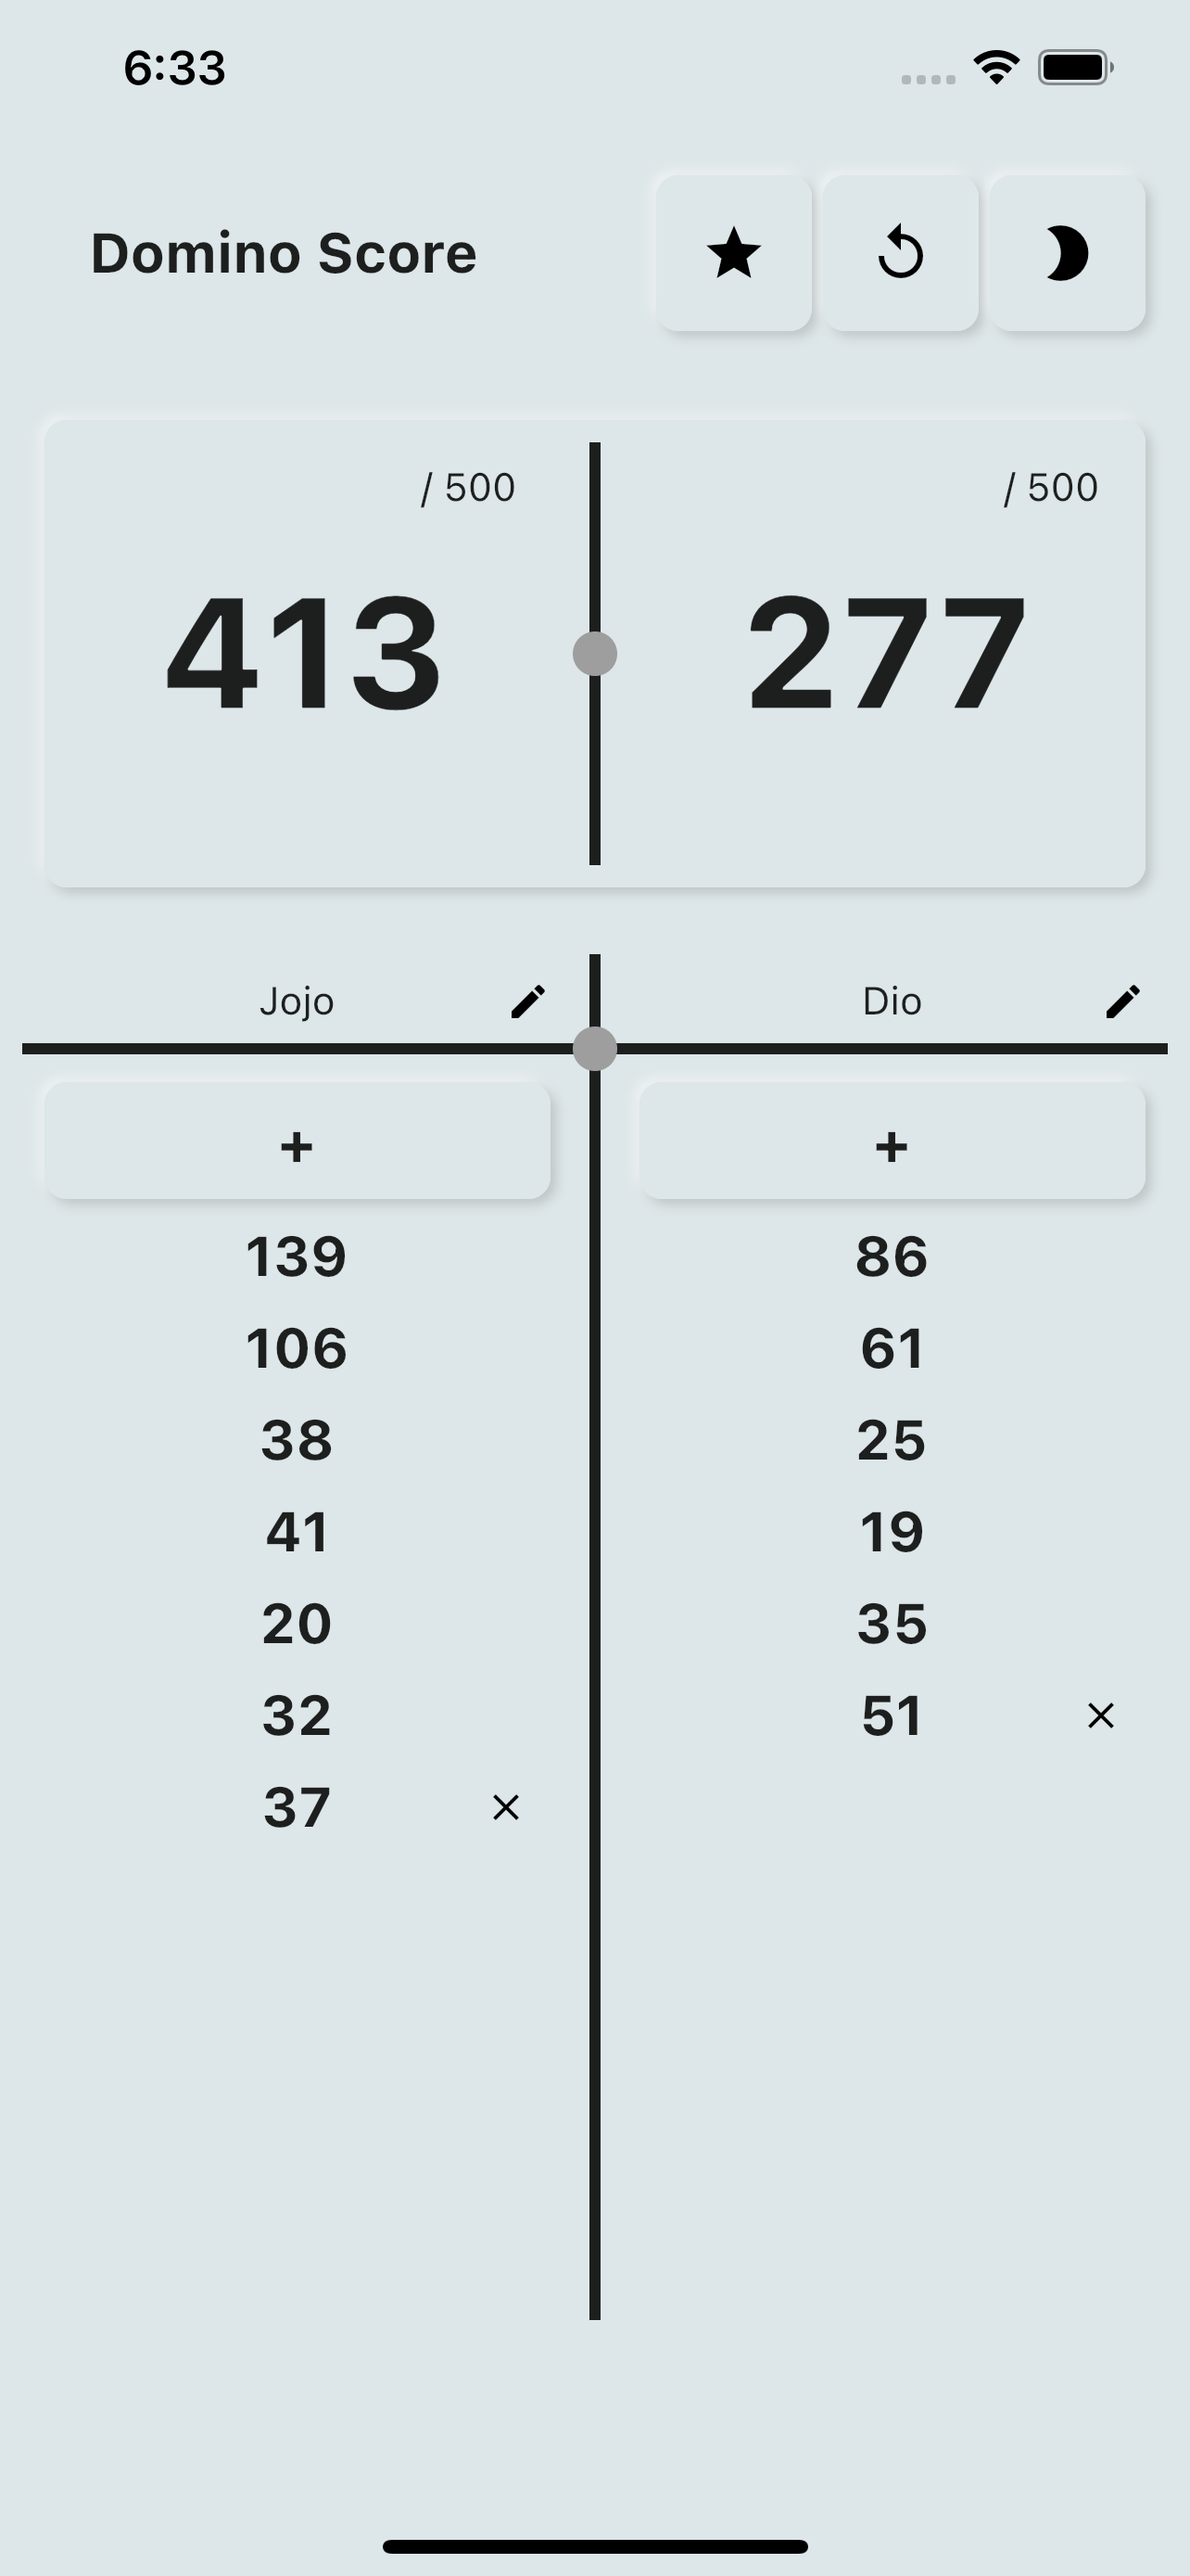
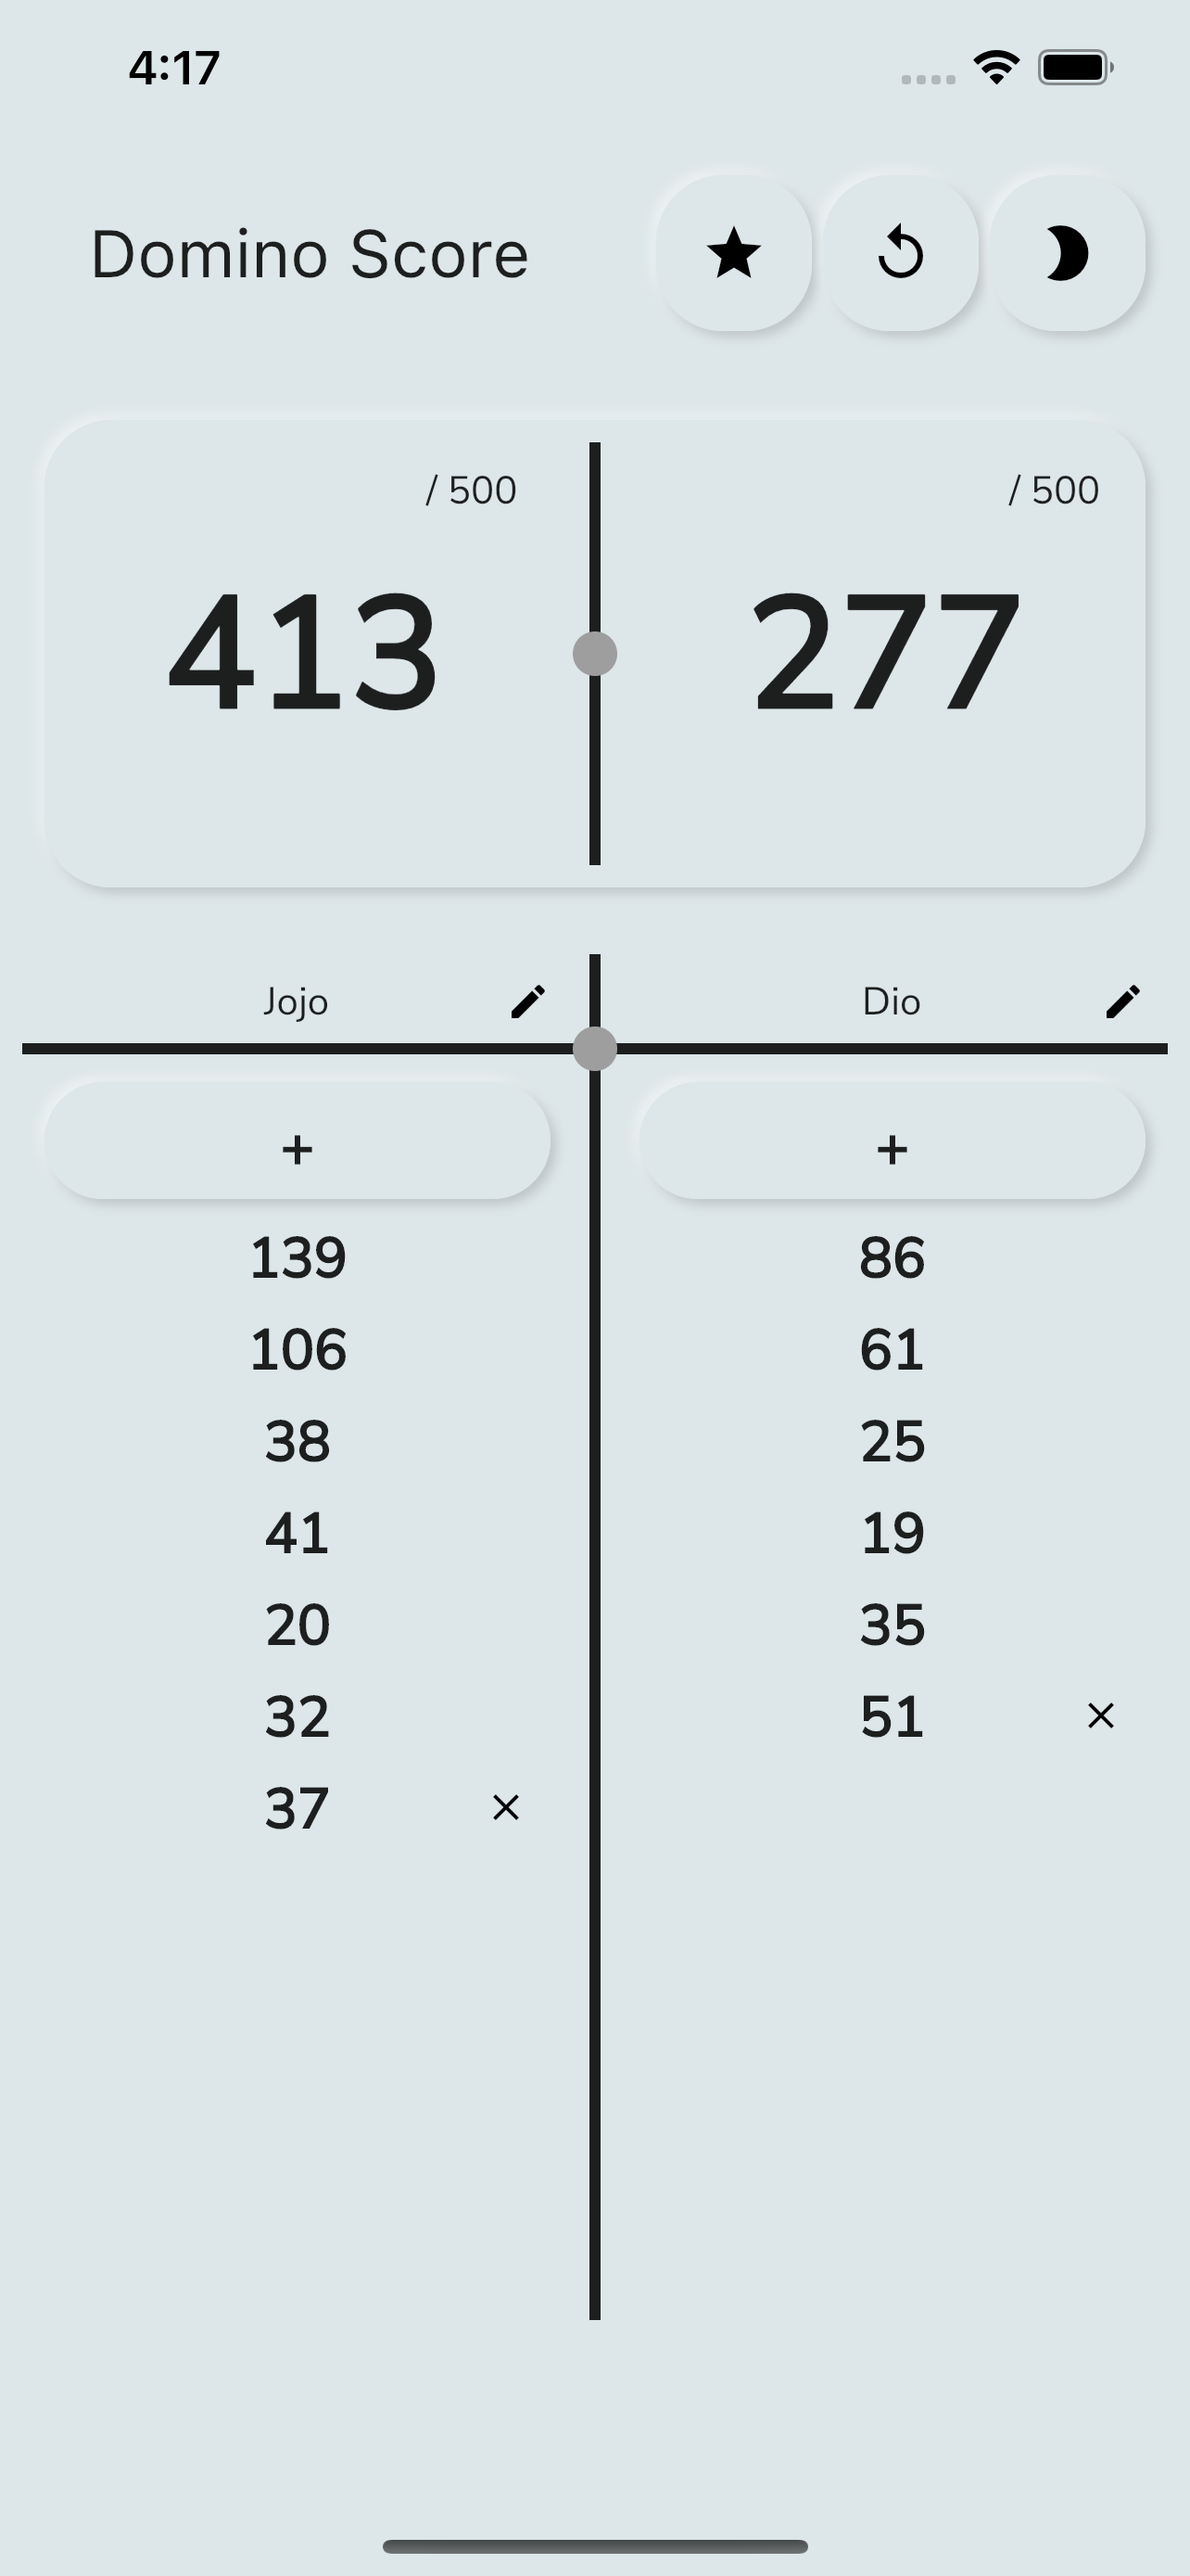
version 1.1.4

diff --git a/_pages/changelog.md b/_pages/changelog.md
@@ -6,7 +6,18 @@ include_in_header: true
 
 ### `Latest`
 
-# **Version 1.1.3**
+# **Version 1.1.4**
+
+#### What's New
+
+- Design Improvements.
+- Performance Improvements.
+
+#### Bug Fixes
+
+- N/A
+
+## **Version 1.1.3**
 
 #### What's New
 
